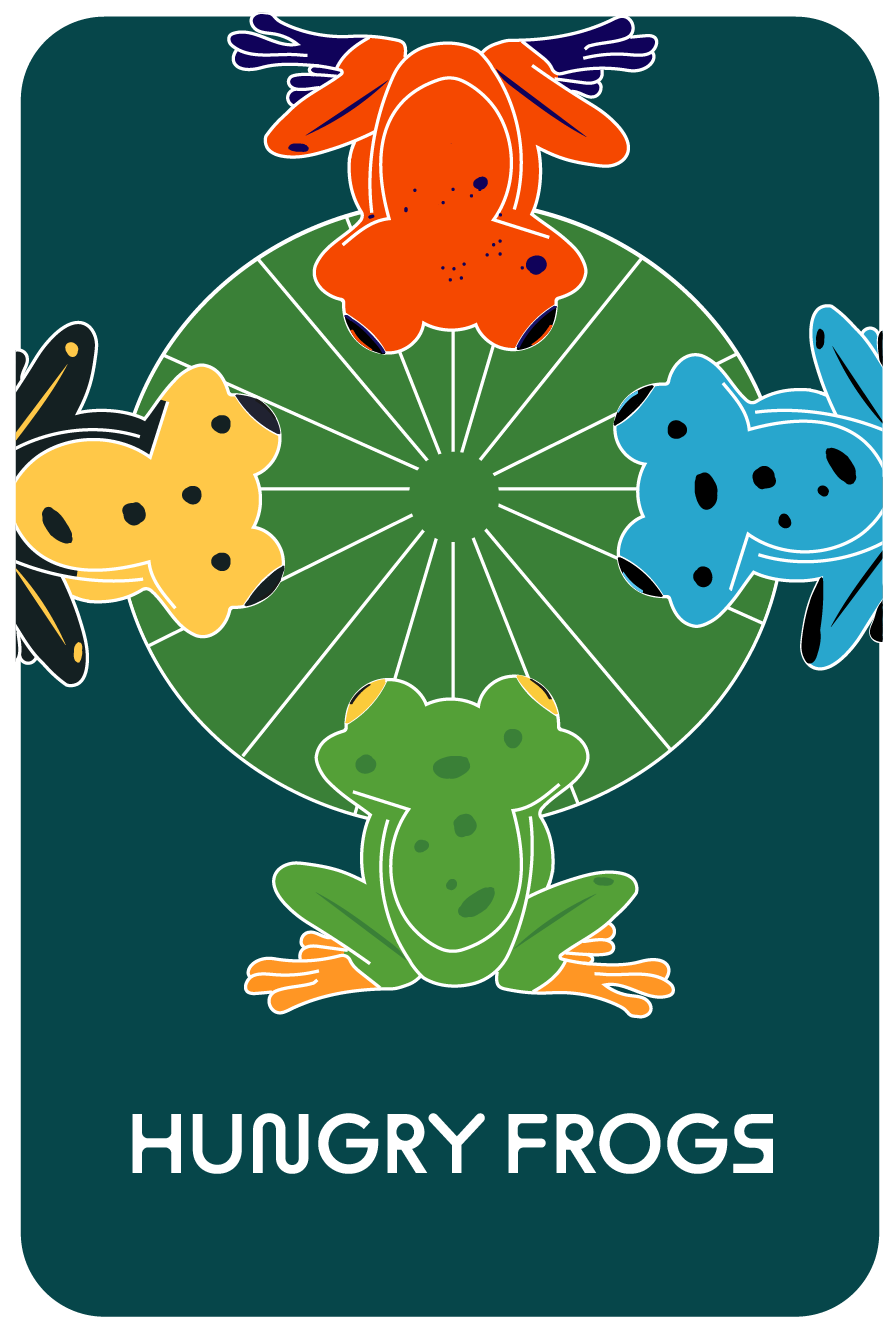
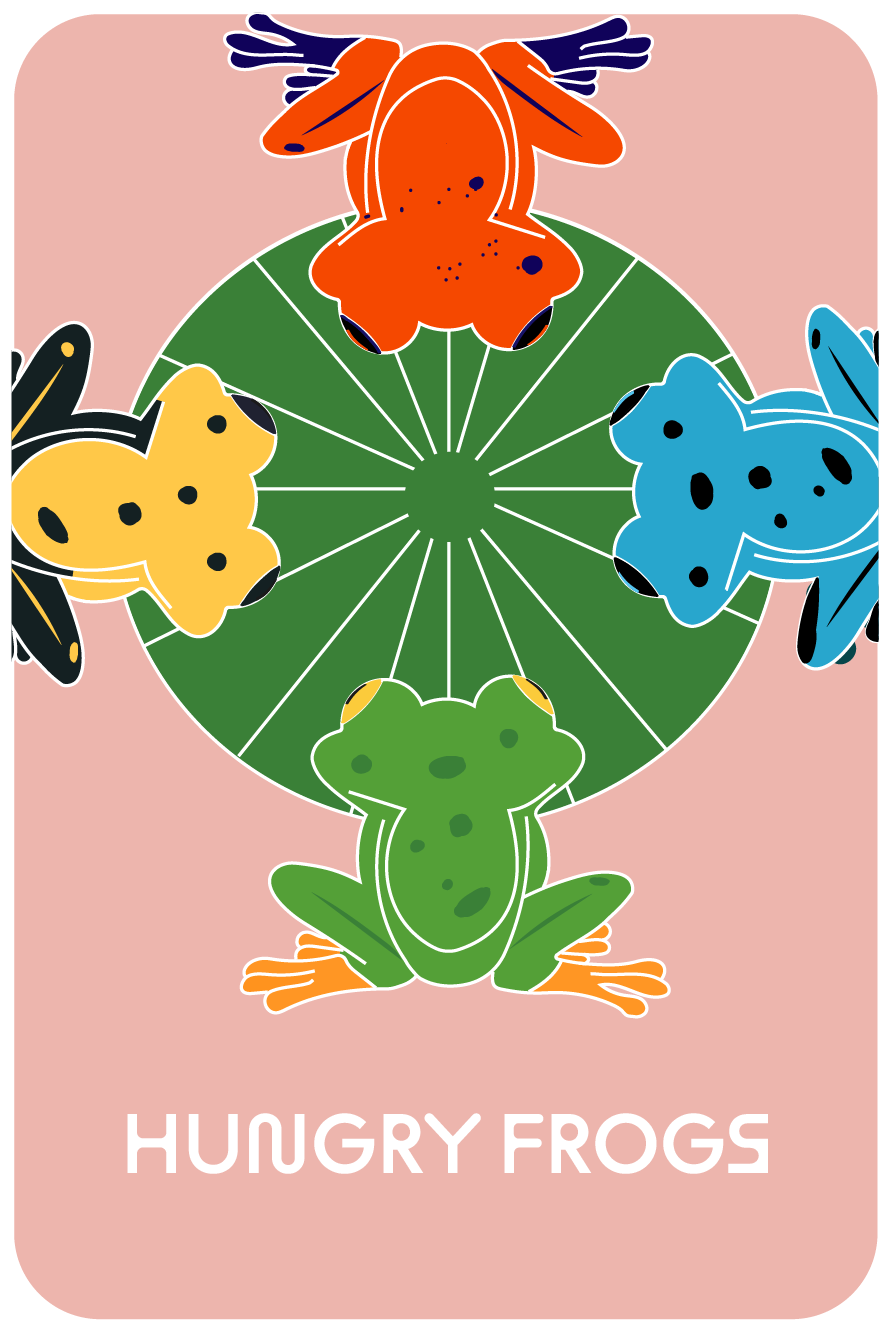
Delete Bloom code & replaced images

diff --git a/Topics/VariationJam/index.html b/Topics/VariationJam/index.html
@@ -30,7 +30,7 @@
         />
         <img
           id="btn-lotus"
-          src="assets/images/lotus_scren.png"
+          src="assets/images/lotus_screen.png"
           alt="Lotus Bloom"
         />
       </div>

diff --git a/Topics/VariationJam/css/style.css b/Topics/VariationJam/css/style.css
@@ -24,7 +24,7 @@ body {
   flex-direction: row;
   align-items: center;
   justify-content: center;
-  background-color: #edb5ad;
+  background-color: #ce2a4d;
   height: 500px;
   width: 850px;
 }
